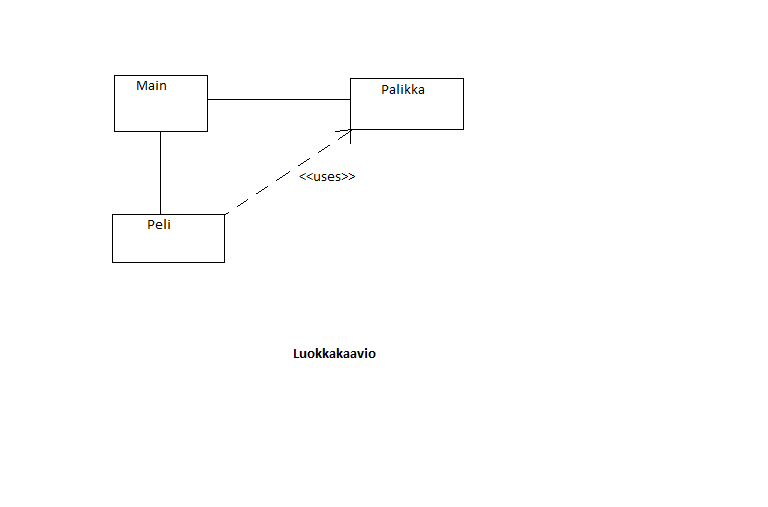
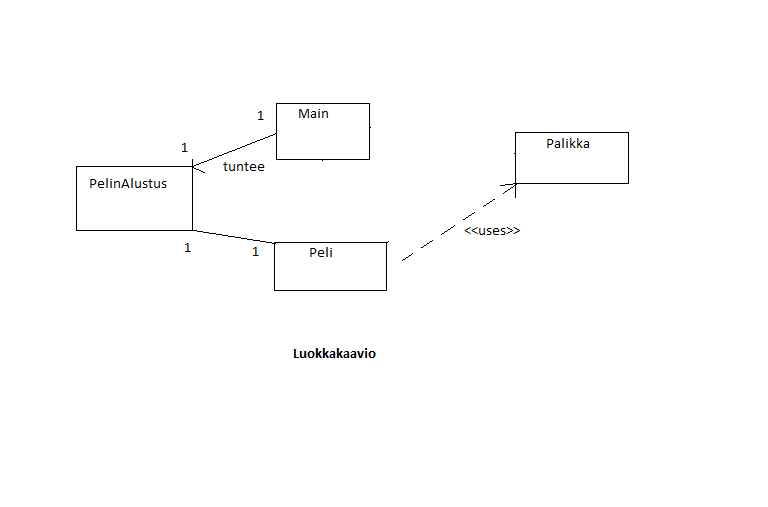
uusi luokkakaavio

diff --git a/Tetris1/src/tetris1/Peli.java b/Tetris1/src/tetris1/Peli.java
@@ -1,21 +1,187 @@
 package tetris1;
 
-import java.awt.*;
+import java.awt.Color;
+import java.awt.Dimension;
+import java.awt.Graphics;
+import java.awt.event.ActionEvent;
+import java.awt.event.ActionListener;
+import java.awt.event.KeyAdapter;
+import java.awt.event.KeyEvent;
 
-import java.awt.event.*;
-
-
-import javax.swing.*;
-
+import javax.swing.JLabel;
+import javax.swing.JPanel;
+import javax.swing.Timer;
 
 import tetris1.Palikka.Tetrominot;
 
-public class Peli {
+public class Peli extends JPanel implements ActionListener {
 
+    final int RuudunLeveys = 25;
+    final int RuudunKorkeus = 25;
+    Timer ajastin;
+    boolean onkoPudonnut = false;
+    boolean onkoAlkanut = false;
+    int nykyinenX = 0;
+    int nykyinenY = 0;
+    JLabel statusbar;
     Palikka pala;
+    Tetrominot[] muodot;
 
-    public Peli() {
-        Palikka pala = new Palikka();
+    public Peli(PelinAlustus pa) {
 
+        setFocusable(true);
+        pala = new Palikka();
+        ajastin = new Timer(200, this);
+        ajastin.start();
+
+        statusbar = pa.getStatusBar();
+        muodot = new Tetrominot[RuudunLeveys * RuudunKorkeus];
+        addKeyListener(new TAdapter());
+        tyhjennaRuutu();
+    }
+
+    public void starttaa() {
+
+        onkoAlkanut = true;
+        onkoPudonnut = false;
+
+        tyhjennaRuutu();
+
+        uusiPala();
+        ajastin.start();
+    }
+
+    @Override
+    public void actionPerformed(ActionEvent e) {
+        if (onkoPudonnut) {
+            onkoPudonnut = false;
+            uusiPala();
+        } else {
+            pykalaAlas();
+        }
+    }
+
+    public int nelionLeveys() {
+        return (int) getSize().getWidth() / RuudunLeveys;
+    }
+    
+
+    public int nelionKorkeus() {
+        return (int) getSize().getHeight() / RuudunKorkeus;
+    }
+
+    public Tetrominot tetrominonMuoto(int x, int y) {
+        return muodot[(y * RuudunLeveys) + x];
+    }
+
+    @Override
+    public void paint(Graphics g) {
+        super.paint(g);
+
+        Dimension koko = getSize();
+        int huippu = (int) koko.getHeight() - RuudunKorkeus * nelionKorkeus();
+
+        if (pala.getMuoto() != Tetrominot.EiMuotoa) {
+            for (int i = 0; i < 4; ++i) {
+                int x = nykyinenX + pala.x(i);
+                int y = nykyinenY - pala.y(i);
+                piirraNelio(g, 0 + x * nelionLeveys(),
+                        huippu + (RuudunKorkeus - y - 1) * nelionKorkeus());
+            }
+        }
+    }
+
+    private void piirraNelio(Graphics g, int x, int y) {
+
+        Color vari = new Color(0, 0, 0);
+
+        g.setColor(vari);
+        g.fillRect(x + 1, y + 1, nelionLeveys() - 2, nelionKorkeus() - 2);
+
+        g.drawLine(x + 1, y + nelionKorkeus() - 1,
+                x + nelionLeveys() - 1, y + nelionKorkeus() - 1);
+        g.drawLine(x + nelionLeveys() - 1, y + nelionKorkeus() - 1,
+                x + nelionLeveys() - 1, y + 1);
+    }
+
+    private void pykalaAlas() {
+        if (!voikoLiikuttaa(pala, nykyinenX, nykyinenY - 1)) {
+            pudonnutPala();
+        }
+    }
+
+    private void tyhjennaRuutu() {
+        for (int i = 0; i < RuudunKorkeus * RuudunLeveys; ++i) {
+            muodot[i] = Tetrominot.EiMuotoa;
+        }
+    }
+
+    private void pudonnutPala() {
+        for (int i = 0; i < 4; ++i) {
+            int x = nykyinenX + pala.x(i);
+            int y = nykyinenY - pala.y(i);
+            muodot[(y * RuudunLeveys) + x] = pala.getMuoto();
+        }
+
+        if (!onkoPudonnut) {
+            uusiPala();
+        }
+    }
+
+    private void uusiPala() {
+        pala.asetaSatunnaismuoto();
+        nykyinenX = RuudunLeveys / 2 + 1;
+        nykyinenY = RuudunKorkeus - 1 + pala.minY();
+
+        if (!voikoLiikuttaa(pala, nykyinenX, nykyinenY)) {
+            pala.asetaMuoto(Tetrominot.EiMuotoa);
+            ajastin.stop();
+            onkoAlkanut = false;
+
+        }
+    }
+
+    public boolean voikoLiikuttaa(Palikka uusiPala, int uusiX, int uusiY) {
+        for (int i = 0; i < 4; ++i) {
+            int x = uusiX + uusiPala.x(i);
+            int y = uusiY - uusiPala.y(i);
+            if (x < 0 || x >= RuudunLeveys || y < 0 || y >= RuudunKorkeus) {
+                return false;
+            }
+            if (tetrominonMuoto(x, y) != Tetrominot.EiMuotoa) {
+                return false;
+            }
+        }
+
+        pala = uusiPala;
+        nykyinenX = uusiX;
+        nykyinenY = uusiY;
+        repaint();
+        return true;
+    }
+
+    class TAdapter extends KeyAdapter {
+
+        public void keyPressed(KeyEvent e) {
+
+            int koodi = e.getKeyCode();
+
+            switch (koodi) {
+                case KeyEvent.VK_LEFT:
+                    voikoLiikuttaa(pala, nykyinenX - 1, nykyinenY);
+                    break;
+                case KeyEvent.VK_RIGHT:
+                    voikoLiikuttaa(pala, nykyinenX + 1, nykyinenY);
+                    break;
+                case KeyEvent.VK_DOWN:
+                    voikoLiikuttaa(pala.kaannaOikealle(), nykyinenX, nykyinenY);
+                    break;
+                case KeyEvent.VK_UP:
+                    voikoLiikuttaa(pala.kaannaVasemmalle(), nykyinenX, nykyinenY);
+                    break;
+
+            }
+
+        }
     }
 }

diff --git a/Tetris1/test/tetris1/PalikkaTest.java b/Tetris1/test/tetris1/PalikkaTest.java
@@ -12,14 +12,14 @@ import org.junit.Test;
 import static org.junit.Assert.*;
 import tetris1.Palikka.Tetrominot;
 
-/**
- *
- * @author Janne
- */
+
 public class PalikkaTest {
     Palikka palikka;
+    private int koordinaatit[][];
+    
     public PalikkaTest() {
         palikka = new Palikka();
+        koordinaatit = new int[4][2];
     }
     
     @BeforeClass
@@ -33,6 +33,7 @@ public class PalikkaTest {
     @Before
     public void setUp() {
         palikka = new Palikka();
+        koordinaatit = new int[4][2];
     }
     
     @After
@@ -136,6 +137,46 @@ public void PalanZMuotoOikea() {
  
     assertEquals(Tetrominot.ZMuoto, pala.getMuoto() );
 }
+  @Test
+public void minYTest() {
+    Palikka pala = new Palikka();
+   
+ 
+    assertEquals(0, pala.minY()  );
+}  
+    @Test
+public void minXTest() {
+    Palikka pala = new Palikka();
+   
+ 
+    assertEquals(0, pala.minX()  );
+}
+    @Test
+public void koordinaattiTest() {
+    Palikka pala = new Palikka();
+   
+ 
+    assertEquals(koordinaatit, pala.getKoordinaatit()  );
+}
+     @Test
+public void toinenKoordinaattiTest() {
+    Palikka pala = new Palikka();
+   pala.setX(2, 1);
+koordinaatit = new int [4][2];
+   koordinaatit[2][0]=1;
+
+    assertEquals(koordinaatit, pala.getKoordinaatit()  );
+} 
+     @Test
+public void kolmasKoordinaattiTest() {
+    Palikka pala = new Palikka();
+   pala.setY(2, 1);
+koordinaatit = new int [4][2];
+   koordinaatit[2][1]=1;
+
+    assertEquals(koordinaatit, pala.getKoordinaatit()  );
+} 
+     
     
     
 }

diff --git a/Tetris1/src/tetris1/Main.java b/Tetris1/src/tetris1/Main.java
@@ -9,27 +9,23 @@ import java.awt.BorderLayout;
 import javax.swing.JFrame;
 import javax.swing.JLabel;
 
-public class Main extends JFrame{
-    
-    JLabel statusbar;
+public class Main {
 
-   public Main(){
-       
-   }
-   
-   
-    
     public static void main(String[] args) {
+
+
         Palikka palikka = new Palikka();
         System.out.println(palikka.getMuoto());
         palikka.asetaSatunnaismuoto();
         System.out.println(palikka.getMuoto());
         palikka.kaannaOikealle();
         System.out.println(palikka.getMuoto());
-        
-        Main peli = new Main();
-        
-        
+
+        PelinAlustus peli = new PelinAlustus();
+
+
+
+
         // TODO code application logic here
     }
 }

diff --git a/Tetris1/src/tetris1/Palikka.java b/Tetris1/src/tetris1/Palikka.java
@@ -43,11 +43,11 @@ public class Palikka {
 
     }
 
-    private void setX(int index, int x) {
+    public void setX(int index, int x) {
         koordinaatit[index][0] = x;
     }
 
-    private void setY(int index, int y) {
+    public void setY(int index, int y) {
         koordinaatit[index][1] = y;
     }
 
@@ -116,5 +116,10 @@ public class Palikka {
             pala.setY(i, x(i));
         }
         return pala;
+    }
+    
+    public int[][] getKoordinaatit(){
+   
+        return koordinaatit;
     }
 }
